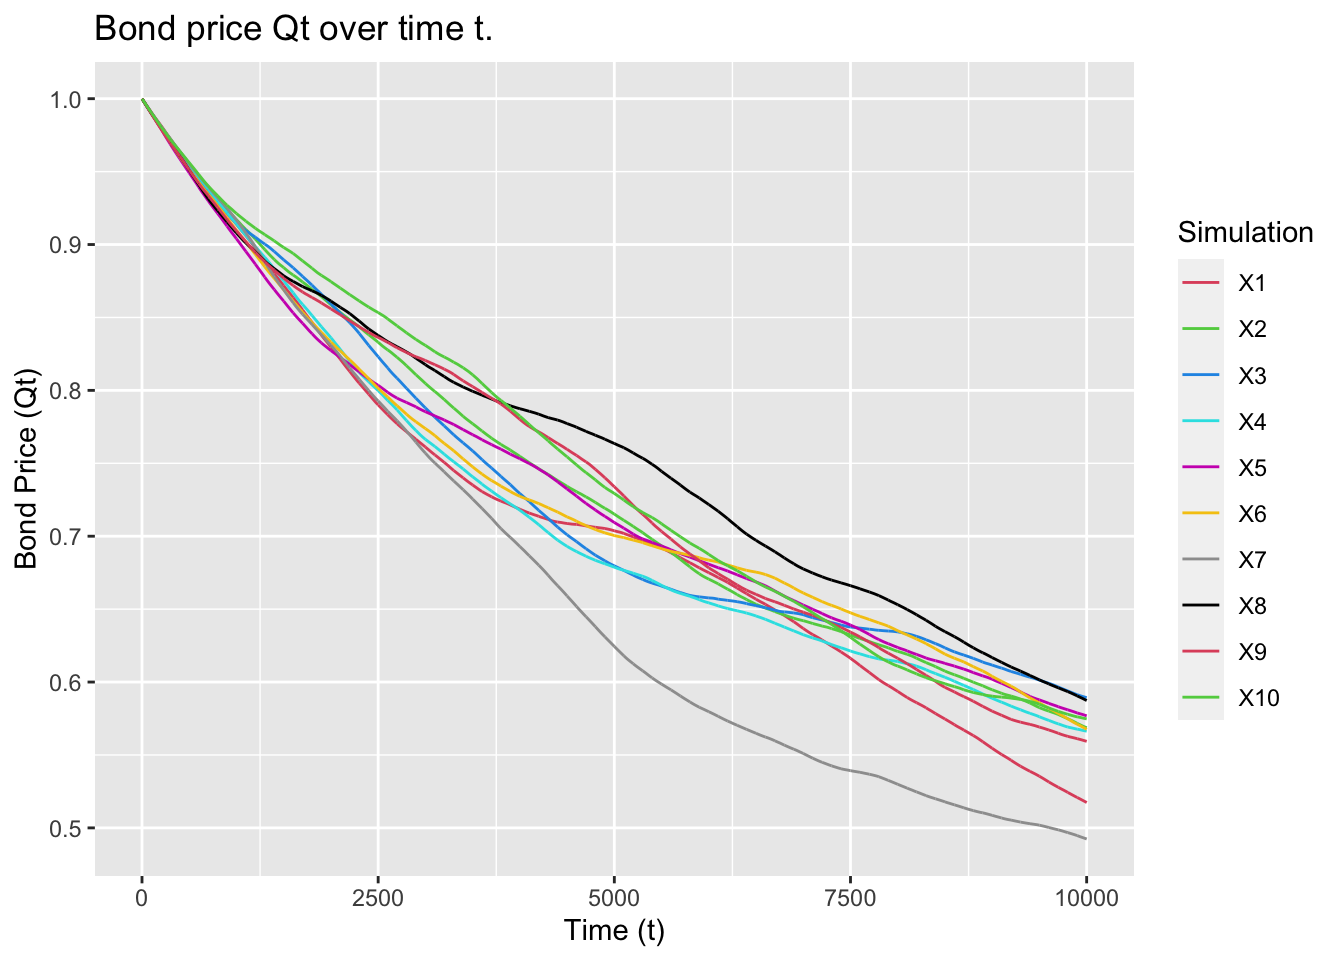
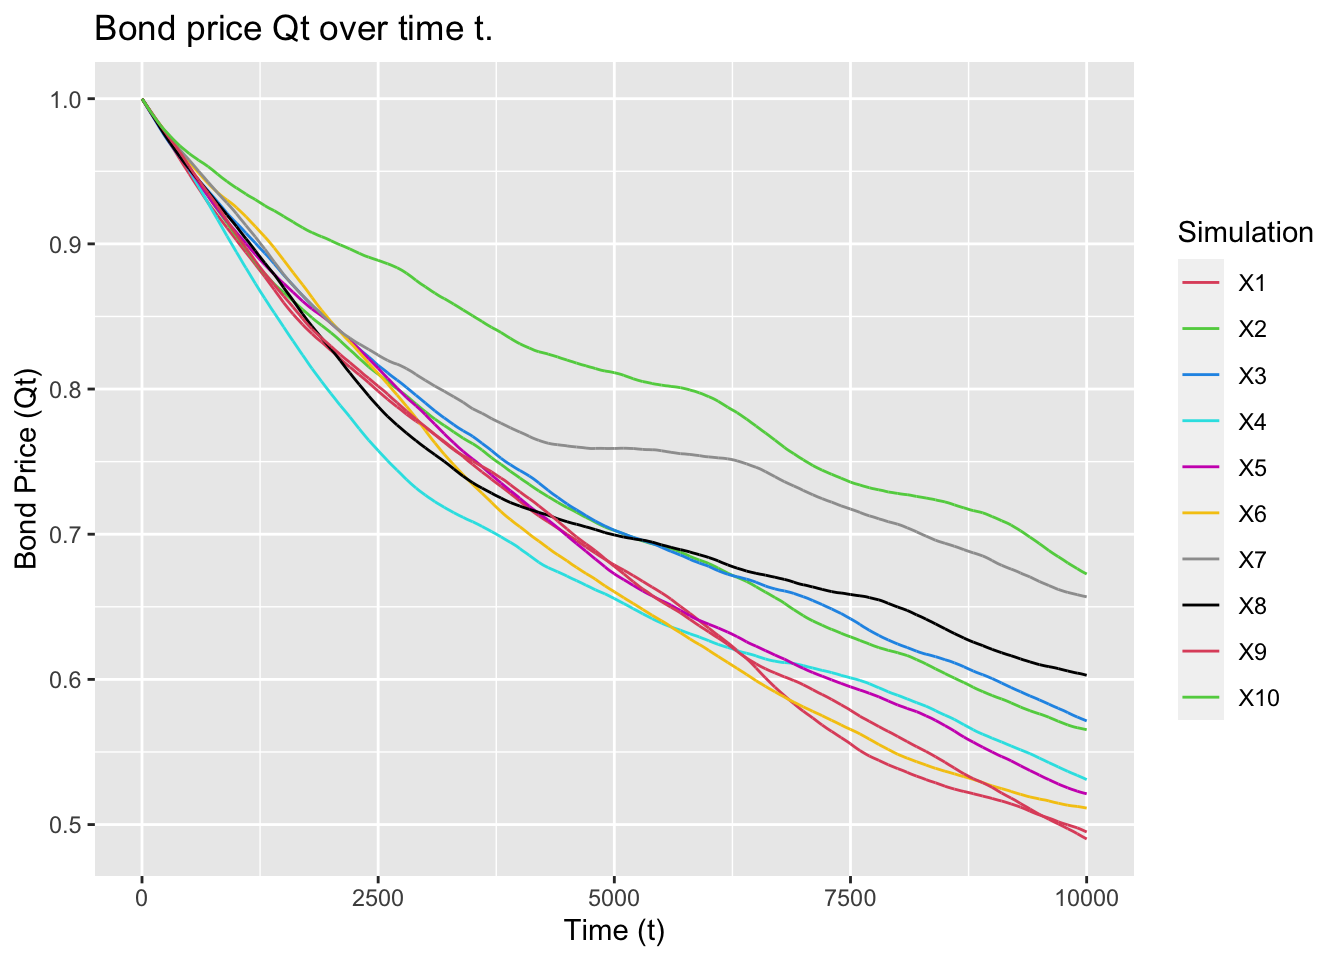
Figure 8 caption.

diff --git a/content/project/BS & Vasiciek/index.html b/content/project/BS & Vasiciek/index.html
@@ -219,5 +219,10 @@ Figure 7 - Variance <img src="https://render.githubusercontent.com/render/math?m
 <p>where <img src="https://render.githubusercontent.com/render/math?math=R_s "> is the OU process defined in Section 3.</p>
 <p><br></p>
 <p>We plot 10 simulations of the bond price <img src="https://render.githubusercontent.com/render/math?math=Q_t "> at time 0 of a bond paying one unit at time <img src="https://render.githubusercontent.com/render/math?math=t "> for <img src="https://render.githubusercontent.com/render/math?math=R_0=0.1 ">, <img src="https://render.githubusercontent.com/render/math?math=\theta=0.5 ">, <img src="https://render.githubusercontent.com/render/math?math=\mu=0.05 "> and <img src="https://render.githubusercontent.com/render/math?math=\sigma=0.02 "> - shown in Figure 8 below.</p>
+<p><br></p>
 <p><img src="{{< blogdown/postref >}}index_files/figure-html/unnamed-chunk-1-1.png" width="672" /></p>
+<p style="text-align: center;">
+Figure 8 - Bond price <img src="https://render.githubusercontent.com/render/math?math=Q_t"> over time <img src="https://render.githubusercontent.com/render/math?math=t">.
+</p>
+<p><br></p>
 </div>
